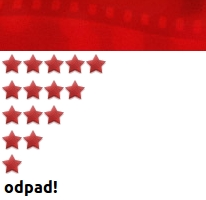
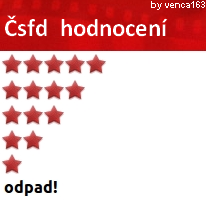
second background added, minor appearance changes

Changed region(s): [[0.2913, 0.09, 0.8155, 0.18], [0.0, 0.06, 0.233, 0.18], [0.7282, 0.0, 1.0, 0.06]]

diff --git a/app/classes/CsfdInfo.js b/app/classes/CsfdInfo.js
@@ -38,6 +38,7 @@ var CsfdInfo = function (res, userId, type, version) {
 // constants
 CsfdInfo._CACHE_RATINGS_PATH = './public/data/cachedRatings/';
 CsfdInfo._RATINGS_IMG_BG_PATH_1 = './public/images/app/ratings_bg1.png';
+CsfdInfo._RATINGS_IMG_BG_PATH_2 = './public/images/app/ratings_bg2.png';
 CsfdInfo._CSFD_API_USER_URL = 'http://csfdapi.cz/user/';
 //
 /////////////////////////////////////////////////////////////
@@ -213,7 +214,7 @@ CsfdInfo.prototype._processRatingsData = function (ratings) {
   
     // compute ratings
     this._countStatistics(ratings);
-    return;
+
     // generate image and send it as response
     this._generateRatingsImage();
 };
@@ -255,12 +256,13 @@ CsfdInfo.prototype._countRatings = function (ratings) {
         realValue = this.ratings.distribution[i] / ratingsNum * 100;
         roundedValue = Math.round(realValue);
         diffValue = realValue - roundedValue;
-        console.log(realValue + " -> " + roundedValue + " -> " + diffValue);
         diffArray.push({id: i, val:diffValue});
         this.ratings.percentageDistribution[i] = roundedValue;
         percentageCount += roundedValue;
     }
     
+    console.log(this.ratings.percentageDistribution);
+    console.log(diffArray);
     var x;
     var diff = percentageCount-100;
     diffArray.sort(getSortNumericFunction());
@@ -283,9 +285,7 @@ CsfdInfo.prototype._countRatings = function (ratings) {
             }
         }
     }
-
     console.log(this.ratings.percentageDistribution);
-
     this.ratings.num = ratingsNum;
 };
 
@@ -306,22 +306,23 @@ CsfdInfo.prototype._generateRatingsImage = function () {
         }
         var img = new Canvas.Image();
         img.src = new Buffer(imgData, 'binary');
-
         var canvas = new Canvas(img.width, img.height);
         var ctx = canvas.getContext('2d');
         
+        var font = csfdInfo._getFont();
+        
         ctx.drawImage(img,0,0, img.width, img.height);
 
-        ctx.font = 'bold italic 15pt Arial';
-        ctx.fillStyle = 'white';
-        ctx.fillText("CSFD ratings", 5, 30);
+//        ctx.font = 'bold italic 15pt Arial';
+//        ctx.fillStyle = 'white';
+//        ctx.fillText("ČSFD ratings", 5, 30);
 
         ctx.fillStyle = '#111';
         var x = 125, y = 193, i;
         for (i=0; i<csfdInfo.ratings.distribution.length; i++) {
-            ctx.font = 'bold 10pt Arial';
+            ctx.font = 'bold 10pt ' + font;
             ctx.fillText(csfdInfo.ratings.distribution[i], x, y);
-            ctx.font = '10pt Arial';
+            ctx.font = '10pt ' + font;
             ctx.fillText('(' + csfdInfo.ratings.percentageDistribution[i] + '%)', x+35, y);
             y -= 25;
         }
@@ -339,10 +340,27 @@ CsfdInfo.prototype._getRatingsImageBgName = function () {
     switch (this._version) {
         case 1: 
             return CsfdInfo._RATINGS_IMG_BG_PATH_1;
+        case 2:
+            return CsfdInfo._RATINGS_IMG_BG_PATH_2;
         default: 
             return CsfdInfo._RATINGS_IMG_BG_PATH_1;
     }
 };
+
+/*
+ * Pick up font for version. 
+ */
+CsfdInfo.prototype._getFont = function () {
+    
+    switch(this._version) {
+        case 1:
+            return "Helvetica";
+        case 2:
+            return "Courier New";
+        default:
+            return "Arial";
+    }
+}
 
 
 /*

diff --git a/index.js b/index.js
@@ -19,8 +19,6 @@ var app = express();
 //    res.writeHead(200, {'Content-Type': 'image/png' });
 //    res.end(img, 'binary');
 //});
-var ci = new CsfdInfoModule.CsfdInfo(null, 459485, "ratings", 1);
-ci.returnStatistics();
 
 app.get('/', function(req, res) {
     
@@ -39,11 +37,11 @@ app.get('/', function(req, res) {
     // default version
     if (!version) {
         version = 1;
+    } else {
+        version = parseInt(version);
     }
     
-    console.log("********************************************************");
-    console.log(req.url);
-
+    console.log("************************ "  + req.url);
     // forward to 'CsfdInfo' class
     // returns image as response (if possible)
     var ci = new CsfdInfoModule.CsfdInfo(res, userId, type, version);
